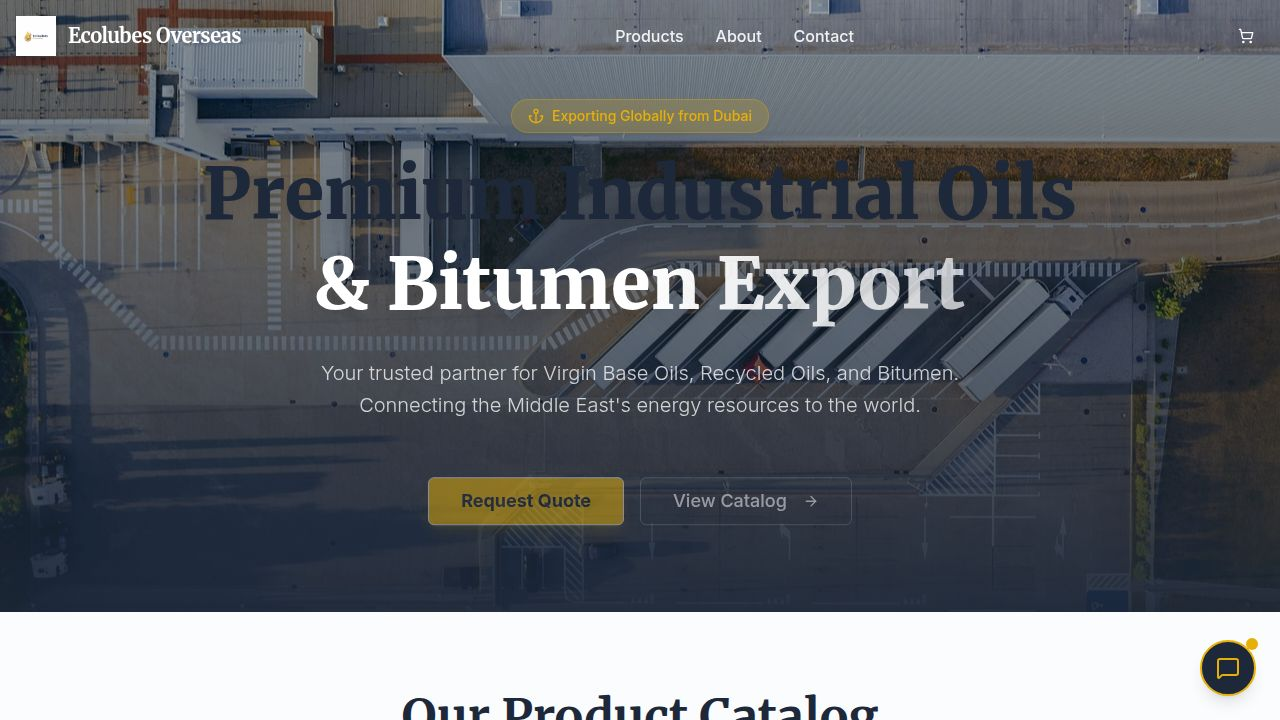
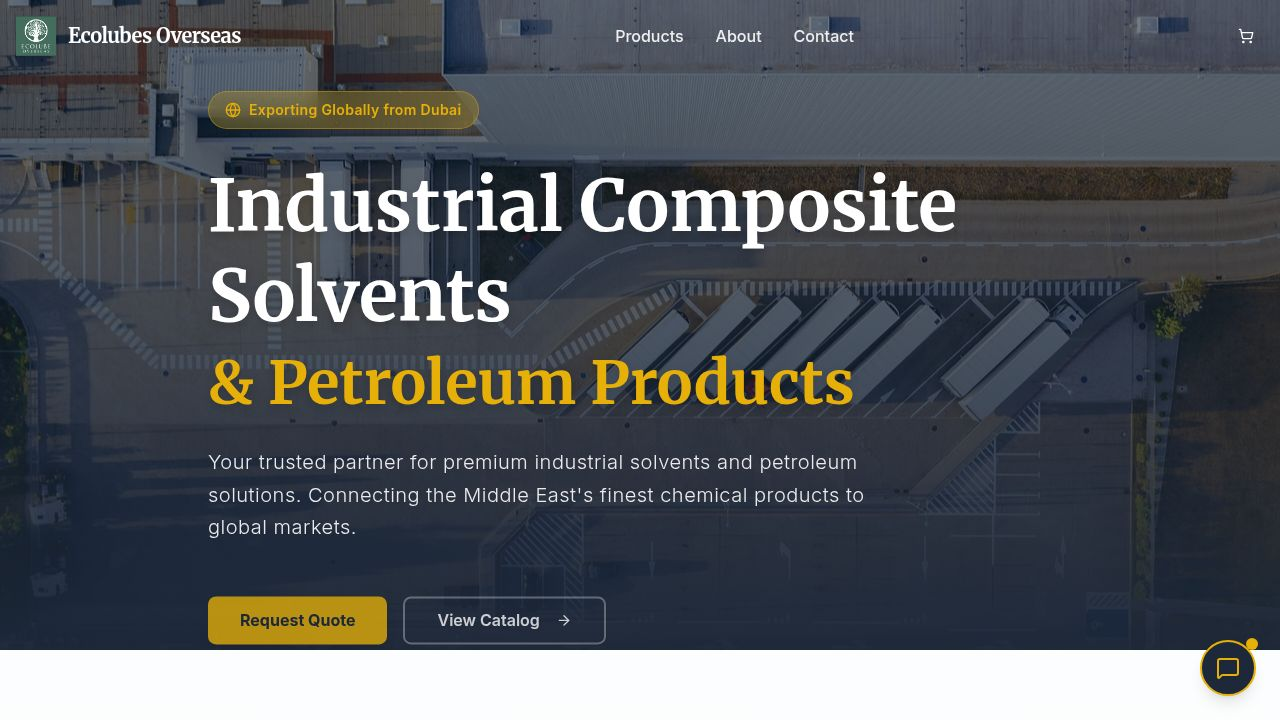
Update product catalog with new industrial and petroleum items
Add new products, images, and descriptions to the product catalog and group them by category.

Replit-Commit-Author: Agent
Replit-Commit-Session-Id: 2fdd8258-d587-425d-b789-b14f5cc14c20
Replit-Commit-Checkpoint-Type: full_checkpoint
Replit-Commit-Event-Id: 80425741-50c4-4ede-9904-a0022500faee
Replit-Commit-Screenshot-Url: https://storage.googleapis.com/screenshot-production-us-central1/287d649e-e67c-4965-a4dd-188ad354a4cb/2fdd8258-d587-425d-b789-b14f5cc14c20/HeGcIO7
Replit-Helium-Checkpoint-Created: true

diff --git a/client/src/components/ecolubes/ProductGrid.tsx b/client/src/components/ecolubes/ProductGrid.tsx
@@ -11,83 +11,101 @@ interface ProductGridProps {
 }
 
 export function ProductGrid({ onAddToCart, cartItems }: ProductGridProps) {
+  const groupedProducts = PRODUCTS.reduce((acc, product) => {
+    const category = product.category || 'Other';
+    if (!acc[category]) acc[category] = [];
+    acc[category].push(product);
+    return acc;
+  }, {} as Record<string, typeof PRODUCTS>);
+
+  const categories = Object.keys(groupedProducts).sort();
+
   return (
-    <section id="products" className="py-20 bg-muted/30">
+    <section id="products" className="py-20 bg-gradient-to-b from-background to-muted/30">
       <div className="container mx-auto px-4">
-        <div className="text-center mb-12 space-y-4">
-          <h2 className="text-3xl md:text-5xl font-serif font-bold text-primary">Our Product Catalog</h2>
+        <div className="text-center mb-16 space-y-4">
+          <h2 className="text-3xl md:text-5xl font-serif font-bold text-primary">Our Complete Product Catalog</h2>
           <p className="text-muted-foreground max-w-2xl mx-auto text-lg">
-            High-grade petrochemical products sourced directly from top refineries.
+            Premium industrial solvents, petroleum products, and textile chemicals sourced globally.
           </p>
         </div>
 
-        <div className="grid grid-cols-1 md:grid-cols-2 lg:grid-cols-3 gap-8">
-          {PRODUCTS.map((product, index) => {
-            const isInCart = cartItems.includes(product.id);
-            
-            return (
-              <motion.div
-                key={product.id}
-                initial={{ opacity: 0, y: 20 }}
-                whileInView={{ opacity: 1, y: 0 }}
-                transition={{ duration: 0.5, delay: index * 0.1 }}
-                viewport={{ once: true }}
-              >
-                <Card className="h-full flex flex-col overflow-hidden group hover:shadow-xl transition-all duration-300 border-border/50 bg-card">
-                  <div className="relative aspect-[4/3] overflow-hidden">
-                    <img 
-                      src={product.image} 
-                      alt={product.name}
-                      className="w-full h-full object-cover transition-transform duration-700 group-hover:scale-110"
-                    />
-                    <div className="absolute inset-0 bg-gradient-to-t from-black/60 to-transparent opacity-0 group-hover:opacity-100 transition-opacity duration-300 flex items-end p-6">
-                      <p className="text-white text-sm font-medium transform translate-y-4 group-hover:translate-y-0 transition-transform duration-300">
-                        {product.description}
-                      </p>
-                    </div>
-                  </div>
-                  
-                  <CardHeader className="space-y-2">
-                    <CardTitle className="text-xl font-bold text-primary">{product.name}</CardTitle>
-                    <div className="flex flex-wrap gap-2">
-                      {product.tags.map(tag => (
-                        <Badge key={tag} variant="secondary" className="bg-secondary/50 text-secondary-foreground/80 hover:bg-secondary">
-                          {tag}
-                        </Badge>
-                      ))}
-                    </div>
-                  </CardHeader>
-                  
-                  <CardContent className="flex-grow">
-                    {/* Spacer content is handled by flex-grow */}
-                  </CardContent>
+        {categories.map((category) => (
+          <div key={category} className="mb-16">
+            <div className="flex items-center gap-3 mb-8">
+              <h3 className="text-2xl md:text-3xl font-serif font-bold text-primary">{category}</h3>
+              <div className="flex-1 h-px bg-gradient-to-r from-accent/50 to-transparent" />
+            </div>
 
-                  <CardFooter className="pt-0">
-                    <Button 
-                      className={`w-full font-semibold shadow-sm transition-all duration-300 ${
-                        isInCart 
-                          ? 'bg-green-600 hover:bg-green-700 text-white' 
-                          : 'bg-primary hover:bg-primary/90 text-primary-foreground'
-                      }`}
-                      onClick={() => onAddToCart(product)}
-                      disabled={isInCart}
-                    >
-                      {isInCart ? (
-                        <>
-                          <Check className="mr-2 h-4 w-4" /> Added to Quote
-                        </>
-                      ) : (
-                        <>
-                          <Plus className="mr-2 h-4 w-4" /> Add to Quote
-                        </>
-                      )}
-                    </Button>
-                  </CardFooter>
-                </Card>
-              </motion.div>
-            );
-          })}
-        </div>
+            <div className="grid grid-cols-1 md:grid-cols-2 lg:grid-cols-3 gap-8 mb-8">
+              {groupedProducts[category].map((product, index) => {
+                const isInCart = cartItems.includes(product.id);
+                
+                return (
+                  <motion.div
+                    key={product.id}
+                    initial={{ opacity: 0, y: 20 }}
+                    whileInView={{ opacity: 1, y: 0 }}
+                    transition={{ duration: 0.5, delay: index * 0.1 }}
+                    viewport={{ once: true }}
+                  >
+                    <Card className="h-full flex flex-col overflow-hidden group hover:shadow-xl transition-all duration-300 border-border/50 bg-card">
+                      <div className="relative aspect-[4/3] overflow-hidden">
+                        <img 
+                          src={product.image} 
+                          alt={product.name}
+                          className="w-full h-full object-cover transition-transform duration-700 group-hover:scale-110"
+                        />
+                        <div className="absolute inset-0 bg-gradient-to-t from-black/60 to-transparent opacity-0 group-hover:opacity-100 transition-opacity duration-300 flex items-end p-6">
+                          <p className="text-white text-sm font-medium transform translate-y-4 group-hover:translate-y-0 transition-transform duration-300">
+                            {product.description}
+                          </p>
+                        </div>
+                      </div>
+                      
+                      <CardHeader className="space-y-2">
+                        <CardTitle className="text-xl font-bold text-primary">{product.name}</CardTitle>
+                        <div className="flex flex-wrap gap-2">
+                          {product.tags.map(tag => (
+                            <Badge key={tag} variant="secondary" className="bg-secondary/50 text-secondary-foreground/80 hover:bg-secondary">
+                              {tag}
+                            </Badge>
+                          ))}
+                        </div>
+                      </CardHeader>
+                      
+                      <CardContent className="flex-grow">
+                        {/* Spacer content is handled by flex-grow */}
+                      </CardContent>
+
+                      <CardFooter className="pt-0">
+                        <Button 
+                          className={`w-full font-semibold shadow-sm transition-all duration-300 ${
+                            isInCart 
+                              ? 'bg-green-600 hover:bg-green-700 text-white' 
+                              : 'bg-primary hover:bg-primary/90 text-primary-foreground'
+                          }`}
+                          onClick={() => onAddToCart(product)}
+                          disabled={isInCart}
+                        >
+                          {isInCart ? (
+                            <>
+                              <Check className="mr-2 h-4 w-4" /> Added to Quote
+                            </>
+                          ) : (
+                            <>
+                              <Plus className="mr-2 h-4 w-4" /> Add to Quote
+                            </>
+                          )}
+                        </Button>
+                      </CardFooter>
+                    </Card>
+                  </motion.div>
+                );
+              })}
+            </div>
+          </div>
+        ))}
       </div>
     </section>
   );

diff --git a/client/src/lib/constants.ts b/client/src/lib/constants.ts
@@ -1,11 +1,23 @@
 import heroImage from '@assets/stock_images/industrial_port_ship_fa42aa8a.jpg';
-import product1 from '@assets/stock_images/golden_engine_oil_cl_c35e9284.jpg';
-import product2 from '@assets/stock_images/amber_darker_industr_9e510456.jpg';
-import product3 from '@assets/stock_images/blue_industrial_oil__ce21dabe.jpg';
-import product4 from '@assets/stock_images/black_bitumen_asphal_d66fbc03.jpg';
-import product5 from '@assets/stock_images/dark_heavy_fuel_oil__9b1c97a7.jpg';
-import product6 from '@assets/stock_images/petrochemical_refine_b9f936ad.jpg';
 import logo from '@assets/image_1766152637296.png';
+
+// Industrial Solvents
+import hexane from '@assets/stock_images/clear_industrial_sol_8914e975.jpg';
+import toluene from '@assets/stock_images/toluene_aromatic_sol_b2076505.jpg';
+import xylene from '@assets/stock_images/xylene_chemical_solv_0741a26a.jpg';
+import mixSolvents from '@assets/stock_images/industrial_solvent_m_fd3b94a3.jpg';
+import thinner from '@assets/stock_images/paint_thinner_solven_07a4ac40.jpg';
+
+// Petroleum Products
+import baseOil from '@assets/stock_images/base_oil_mineral_oil_caed5dfb.jpg';
+import sn500 from '@assets/stock_images/sn_500_base_oil_heav_b15e65d1.jpg';
+import sn150 from '@assets/stock_images/sn_150_base_oil_ligh_848be6e7.jpg';
+import lubricantOil from '@assets/stock_images/lubricant_motor_oil__e4ebb4c2.jpg';
+import grease from '@assets/stock_images/industrial_grease_lu_5a7edcbf.jpg';
+import bitumen from '@assets/stock_images/bitumen_asphalt_pavi_52e9cbfe.jpg';
+
+// Textile Chemicals
+import peg from '@assets/stock_images/peg_polyethylene_gly_53bbe44d.jpg';
 
 export const COMPANY_CONFIG = {
   name: "Ecolubes Overseas",
@@ -13,51 +25,126 @@ export const COMPANY_CONFIG = {
   email: "sales@ecolubesoverseas.com",
   phone: "+971 4 123 4567",
   address: "Business Bay, Dubai, UAE",
-  description: "Premium Industrial Oils & Bitumen Export from Dubai to the World."
+  description: "Premium Industrial Solvents & Petroleum Products Export from Dubai to the World."
 };
 
 export const PRODUCTS = [
+  // Industrial Solvents
   {
     id: 1,
-    name: "Virgin Base Oil SN 150",
-    image: product1,
-    tags: ["Light Grade", "Industrial", "Virgin"],
-    description: "High quality Virgin Base Oil SN 150 for various industrial applications."
+    category: "Industrial Solvents",
+    name: "Hexane",
+    image: hexane,
+    tags: ["Solvent", "Chemical", "Industrial"],
+    description: "High-purity hexane for use in extraction, cleaning, and manufacturing processes."
   },
   {
     id: 2,
-    name: "Virgin Base Oil SN 500",
-    image: product2,
-    tags: ["Heavy Grade", "Industrial", "Virgin"],
-    description: "Premium Virgin Base Oil SN 500 with excellent viscosity characteristics."
+    category: "Industrial Solvents",
+    name: "Toluene",
+    image: toluene,
+    tags: ["Aromatic Solvent", "Chemical", "Industrial"],
+    description: "Premium toluene for paints, coatings, adhesives, and chemical synthesis."
   },
   {
     id: 3,
-    name: "Recycled Base Oil SN 150",
-    image: product3,
-    tags: ["Eco-Friendly", "Recycled", "Cost-Effective"],
-    description: "Sustainable Recycled Base Oil SN 150, refined to high standards."
+    category: "Industrial Solvents",
+    name: "Xylene",
+    image: xylene,
+    tags: ["Solvent", "Chemical", "Industrial"],
+    description: "Mixed xylene solution used in printing, painting, and chemical manufacturing."
   },
   {
     id: 4,
-    name: "Bitumen 60/70",
-    image: product4,
-    tags: ["Construction", "Paving", "Heavy Duty"],
-    description: "Standard penetration grade Bitumen 60/70 for road construction and paving."
+    category: "Industrial Solvents",
+    name: "Mix Solvents",
+    image: mixSolvents,
+    tags: ["Custom Blend", "Solvent", "Industrial"],
+    description: "Customized solvent blends for specific industrial applications and requirements."
   },
   {
     id: 5,
-    name: "Fuel Oil CST 180",
-    image: product5,
-    tags: ["Marine Fuel", "Power Generation", "Heavy Fuel"],
-    description: "High-grade Fuel Oil CST 180 suitable for marine engines and power plants."
+    category: "Industrial Solvents",
+    name: "Thinner",
+    image: thinner,
+    tags: ["Paint Thinner", "Chemical", "Industrial"],
+    description: "Professional-grade paint thinner for dilution and surface preparation."
   },
+
+  // Petroleum Products
   {
     id: 6,
-    name: "Industrial Solvents",
-    image: product6,
-    tags: ["Chemical", "Cleaning", "Processing"],
-    description: "Wide range of industrial solvents for manufacturing and cleaning processes."
+    category: "Petroleum Products",
+    name: "Base Oil",
+    image: baseOil,
+    tags: ["Mineral Oil", "Petroleum", "Industrial"],
+    description: "High-quality mineral base oil for lubricants and industrial applications."
+  },
+  {
+    id: 7,
+    category: "Petroleum Products",
+    name: "SN 500",
+    image: sn500,
+    tags: ["Heavy Grade", "Petroleum", "Lubricant"],
+    description: "Premium SN 500 grade base oil with high viscosity for heavy-duty applications."
+  },
+  {
+    id: 8,
+    category: "Petroleum Products",
+    name: "SN 150",
+    image: sn150,
+    tags: ["Light Grade", "Petroleum", "Lubricant"],
+    description: "SN 150 grade base oil with excellent fluidity for light industrial use."
+  },
+  {
+    id: 9,
+    category: "Petroleum Products",
+    name: "Lubricant Oil",
+    image: lubricantOil,
+    tags: ["Engine Oil", "Petroleum", "Lubricant"],
+    description: "High-performance motor oil for automotive and industrial engine lubrication."
+  },
+  {
+    id: 10,
+    category: "Petroleum Products",
+    name: "Grease",
+    image: grease,
+    tags: ["Lubricant", "Petroleum", "Industrial"],
+    description: "Industrial-grade multipurpose grease for bearings and mechanical components."
+  },
+  {
+    id: 11,
+    category: "Petroleum Products",
+    name: "Bitumen",
+    image: bitumen,
+    tags: ["Construction", "Petroleum", "Paving"],
+    description: "Premium bitumen for road construction, waterproofing, and paving applications."
+  },
+
+  // Textile Chemicals
+  {
+    id: 12,
+    category: "Textile Chemicals",
+    name: "PEG 400",
+    image: peg,
+    tags: ["Textile Chemical", "Polyethylene Glycol", "Industrial"],
+    description: "Polyethylene glycol 400 for textile, cosmetic, and pharmaceutical applications."
+  },
+  {
+    id: 13,
+    category: "Textile Chemicals",
+    name: "PEG 200",
+    image: peg,
+    tags: ["Textile Chemical", "Polyethylene Glycol", "Industrial"],
+    description: "Polyethylene glycol 200 with lower viscosity for specialized chemical processes."
+  },
+  {
+    id: 14,
+    category: "Textile Chemicals",
+    name: "PEG 600",
+    image: peg,
+    tags: ["Textile Chemical", "Polyethylene Glycol", "Industrial"],
+    description: "Polyethylene glycol 600 for enhanced lubricity and processing efficiency."
   }
 ];
 
